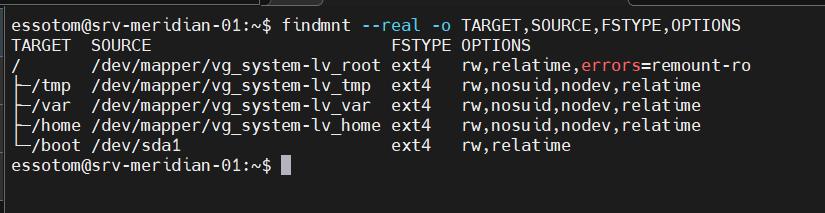
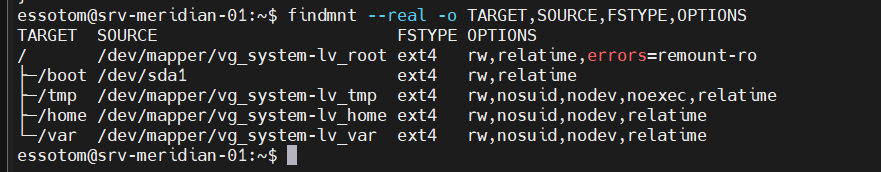
Fix review findings in 01-socle-serveur
/tmp en noexec, nftables en table inet avec flush ruleset et ICMPv6 NDP, X11Forwarding no, procédure pare-feu réécrite, contre-recette avec nouvelles captures, entrée du journal du 24/09/2026, lien LinkedIn.

Changed region(s): [[0.0, 0.0, 1.0, 1.0]]

diff --git a/01-socle-serveur/JOURNAL.md b/01-socle-serveur/JOURNAL.md
@@ -1,14 +1,14 @@
 # Journal du Projet
 
---- 
+---
 
-## Objectif 
+## Objectif
 
 L'objectif de ce journal est de documenter toutes les avancées sur ce projet, mais aussi de préciser les difficultés que j'ai rencontrées dans le cadre de ce projet.
 
 ---
 
-## 25/08/2026 : Date de début du projet
+## 15/09/2026 : Date de début du projet
 
 **Actions réalisées :**
 
@@ -24,7 +24,7 @@ L'objectif de ce journal est de documenter toutes les avancées sur ce projet, m
 
 ---
 
-## 28/08/2026 
+## 18/09/2026
 
 Le projet a beaucoup avancé aujourd'hui, j'ai appris comment durcir et enregistrer les commandes sudo dans un fichier, et comment éditer sudoers en toute sécurité avec visudo.
 
@@ -34,4 +34,41 @@ Pour accorder des privilèges à un compte utilisateur, comme j'ai eu à le fair
 
 De plus, j'ai appris que bien que sudo dispose d'un mécanisme interne de journalisation, il est recommandé d'utiliser un emplacement externe comme /var/log/sudo.log pour des raisons de bonnes pratiques sous Linux.
 
-Alors comment faire cette config ? --> voir [installation.md](docs/installation.md)
+La configuration est détaillée dans [installation.md](docs/installation.md), partie 6, étape 3.
+
+---
+
+## 24/09/2026 : Relecture et correction des écarts
+
+Le projet était marqué comme terminé, mais une relecture a relevé des écarts entre le cahier des charges, le serveur et la documentation. Une partie concerne la configuration du serveur, l'autre la façon dont j'ai mené la recette.
+
+**Écarts relevés**
+
+- `/tmp` était monté sans `noexec` alors que EX-09 l'exige. La capture `findmnt` de validation.md le montrait, et je l'avais quand même notée conforme.
+- Le pare-feu utilisait une table `ip`, qui ne filtre que l'IPv4. Le trafic IPv6 entrant n'était pas filtré du tout.
+- Dans installation.md, les règles étaient créées à chaud avec `nft add`. Elles ne correspondaient pas exactement au fichier conf/nftables.conf, et ce fichier ne commençait pas par `flush ruleset`.
+- `X11Forwarding` était à `yes` sur un serveur qui n'a pas d'interface graphique.
+- Le test T-02 avait été lancé avec le compte `esstom` au lieu de `essotom`.
+- Le test T-03 avait été lancé depuis mon poste vers 10.0.2.15, une adresse que mon poste ne peut pas joindre.
+
+**Cause de la perte de noexec**
+
+Toujours incertaine
+
+**Actions réalisées :**
+
+- Ajout de `noexec` sur la ligne `/tmp` de /etc/fstab
+- Réécriture de /etc/nftables.conf : `flush ruleset` en tête, table `inet`, et autorisation de la découverte de voisins IPv6
+- Passage de `X11Forwarding` à `no`
+- Mise à jour de conf/, de installation.md et de validation.md
+- Contre-recette faite : nouvelles captures pour `/tmp`, le pare-feu, T-02, T-03 et `sshd -T`
+
+**Ce que j'ai appris**
+
+Une table `ip` dans nftables ne voit que l'IPv4. Avec une table `inet`, les mêmes règles s'appliquent à l'IPv4 et à l'IPv6. Par contre, la politique `drop` bloque alors aussi les messages ICMPv6 dont IPv6 a besoin pour fonctionner. Sans `nd-neighbor-solicit` et `nd-neighbor-advert`, le serveur ne peut plus trouver l'adresse MAC de ses voisins (c'est le rôle que joue ARP en IPv4). `nd-router-advert` lui permet de recevoir les annonces des routeurs, qui servent à la configuration automatique des adresses IPv6.
+
+Le `flush ruleset` en tête du fichier vide toutes les règles avant de charger les nouvelles. Sans lui, chaque `nft -f` ajoute les règles à celles déjà en place et on se retrouve avec des doublons. Les règles ajoutées à chaud avec `nft add`, elles, disparaissent au redémarrage si elles ne sont pas écrites dans /etc/nftables.conf. C'est le fichier qui compte, pas ce qui tourne en mémoire à un instant donné.
+
+Pour T-03, le « Connection timed out » obtenu depuis mon poste ne prouvait rien. 10.0.2.15 est l'adresse que VirtualBox donne à la VM sur son réseau NAT, et mon poste ne peut pas la joindre, que sshd écoute dessus ou non. Depuis le serveur, une connexion vers 10.0.2.15 passe par l'interface de bouclage, que le pare-feu laisse passer. Si la réponse est « Connection refused », c'est que rien n'écoute sur le port 22 de cette adresse, et c'est exactement ce que le test doit montrer.
+
+Sur la recette en général, je retiens deux choses : relire chaque capture avant d'écrire « conforme », et vérifier qu'un test qui échoue échoue pour la bonne raison. T-02 échouait parce que le compte `esstom` n'existe pas, ce qui ne disait rien sur le compte `essotom`.

diff --git a/01-socle-serveur/docs/installation.md b/01-socle-serveur/docs/installation.md
@@ -179,7 +179,7 @@ sudo visudo
 puis on rajoute dans le fichier la ligne
 
 ```bash
-Defaults    logfile="/var/log/sudo/log"
+Defaults    logfile="/var/log/sudo.log"
 ```
 et on enregistre
 
@@ -384,41 +384,60 @@ nft --version
 
 #### 2- Configuration des règles nftables
 
+Les règles sont écrites directement dans le fichier `/etc/nftables.conf`, chargé par le service nftables au démarrage. On commence par sauvegarder le fichier d'origine, puis on l'édite.
+
 ```bash
+sudo cp /etc/nftables.conf /etc/nftables.conf.bak
+sudo nano /etc/nftables.conf
+```
 
-# D'abord on crée la table
-sudo nft add table ip meridian
+Contenu du fichier (copie de référence : [conf/nftables.conf](../conf/nftables.conf)) :
 
-# Ensuite on crée les chaînes correspondant aux hooks input et output
+```bash
+#!/usr/sbin/nft -f
 
-sudo nft add chain ip meridian input { type filter hook input priority 0 \; }
+flush ruleset
 
-sudo nft add chain ip meridian output { type filter hook output priority 0 \; }
+table inet meridian {
 
-# Politique par défaut : entrée refusée
-sudo nft chain ip meridian input { policy drop \; }
+    chain input {
+        type filter hook input priority 0;
+        policy drop;
 
-# Pour finir on crée les règles correspondant aux exigences
+        # Autoriser le trafic de bouclage
+        iifname "lo" accept
 
-# Autoriser le trafic sur l'interface de bouclage
-sudo nft add rule ip meridian input iifname "lo" accept
+        # Autoriser les connexions établies et liées
+        ct state established,related accept
 
-sudo nft add rule ip meridian output oifname "lo" accept
+        # Autoriser la découverte de voisins IPv6 (NDP)
+        icmpv6 type { nd-neighbor-solicit, nd-neighbor-advert, nd-router-advert } accept
 
-# Autoriser SSH depuis le réseau 192.168.56.0/24 uniquement
+        # Autoriser SSH uniquement depuis 192.168.56.0/24
+        ip saddr 192.168.56.0/24 tcp dport 22 ct state new accept
+    }
 
-sudo nft add rule ip meridian input ip saddr 192.168.56.0/24 tcp dport 22 accept
+    chain output {
+        type filter hook output priority 0;
+        policy accept;
+    }
+}
+```
 
-#  Autoriser les connexions établies et liées
+On vérifie la syntaxe sans rien appliquer, puis on charge le fichier et on contrôle les règles actives.
 
-sudo nft add rule ip meridian input ct state established,related accept
-
-sudo nft add rule ip meridian output ct state established,related accept
-
-# Validation de la configuration
+```bash
+# Vérification de la syntaxe (aucune règle n'est appliquée)
 sudo nft -c -f /etc/nftables.conf
+
+# Chargement des règles
 sudo nft -f /etc/nftables.conf
 
+# Contrôle des règles actives
+sudo nft list ruleset
+```
+
+```bash
 # Installer et configurer les mises à jour de sécurité automatiques
 sudo apt update
 sudo apt install unattended-upgrades

diff --git a/01-socle-serveur/docs/validation.md b/01-socle-serveur/docs/validation.md
@@ -6,7 +6,7 @@
 | **Opérateur**               | Essotom                                 |
 | **Système testé**           | Debian 13.x, noyau 6.12.105+deb13-amd64 |
 | **Version de la procédure** | `installation.md` v1.0                  |
-| **Résultat global**         | Conforme                                |
+| **Résultat global**         | Conforme     |
 
 ---
 
@@ -48,8 +48,13 @@
 
 ![alt text](img/image-32.png)
 
-**Vérification** - options du tableau EX-09 présentes sur chaque point de montage → oui, conforme
+**Vérification** - options `nodev,nosuid,noexec` présentes sur `/tmp`
 
+### Test `noexec` sur `/tmp` *(attendu : échec)*
+
+![alt text](img/image-47.png)
+
+**Verdict** : OK
 
 ---
 
@@ -79,22 +84,23 @@
 
 ### T-01 - Connexion root refusée *(attendu : échec)*
 
-
 ![alt text](img/image-37.png)
 
 **Verdict** : Accès refusé
 
 ### T-02 - Authentification par mot de passe refusée *(attendu : échec)*
 
-![alt text](img/image-38.png)
+Test refait avec le compte `essotom`.
 
-**Verdict** : Accès refusé comme attendu (EX-18)
+![alt text](img/image-48.png)
+
+**Verdict** : OK
 
 ### T-03 - Pas d'écoute sur l'interface NAT *(attendu : échec)*
 
-![alt text](img/image-39.png)
+![alt text](img/image-49.png)
 
-**Verdict** : échec obtenu comme attendu (EX-19)
+**Verdict** : OK
 
 ### T-04 - Connexion par clé *(attendu : succès, sans mot de passe)*
 
@@ -107,6 +113,12 @@
 ![alt text](img/image-41.png)
 
 **Vérification** - écoute limitée à `192.168.56.10:22` → conforme (EX-19)
+
+### `sudo sshd -T`
+
+![alt text](img/image-50.png)
+
+**Vérification** - `permitrootlogin no`, `passwordauthentication no`, `x11forwarding no`, `listenaddress 192.168.56.10` → OK (EX-18, EX-19)
 
 ---
 
@@ -129,9 +141,9 @@
 
 ### `sudo nft list ruleset`
 
-![alt text](img/image-44.png)
+![alt text](img/image-51.png)
 
-**Vérification** - politique `drop` en entrée, loopback autorisé, SSH limité à `192.168.56.0/24`, connexions établies acceptées → conforme (EX-21)
+**Vérification** - table `inet meridian`, politique `drop` en entrée, loopback autorisé, SSH limité à `192.168.56.0/24`, connexions établies acceptées, ICMPv6 `nd-neighbor-solicit`, `nd-neighbor-advert`, `nd-router-advert` acceptés → OK
 
 ### `systemctl is-enabled unattended-upgrades`
 

diff --git a/README.md b/README.md
@@ -59,4 +59,4 @@ Le **journal de bord** consigne les erreurs et la façon dont elles ont été di
 
 Parcours mené par **Tom Blakime**, élève-ingénieur en réseaux et cybersécurité, dans le cadre d'une montée en compétences vers l'administration système et infrastructure.
 
-[LinkedIn](www.linkedin.com/in/hugues-essotom-blakime)
+[www.linkedin.com/in/hugues-essotom-blakime](https://www.linkedin.com/in/hugues-essotom-blakime)
